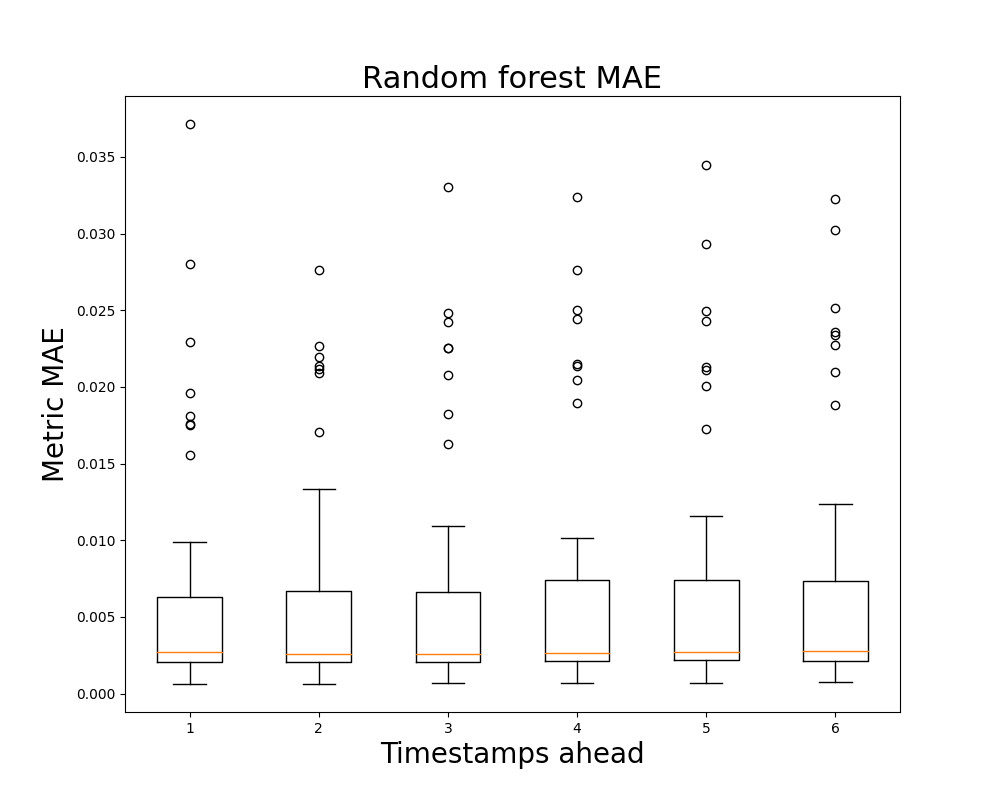
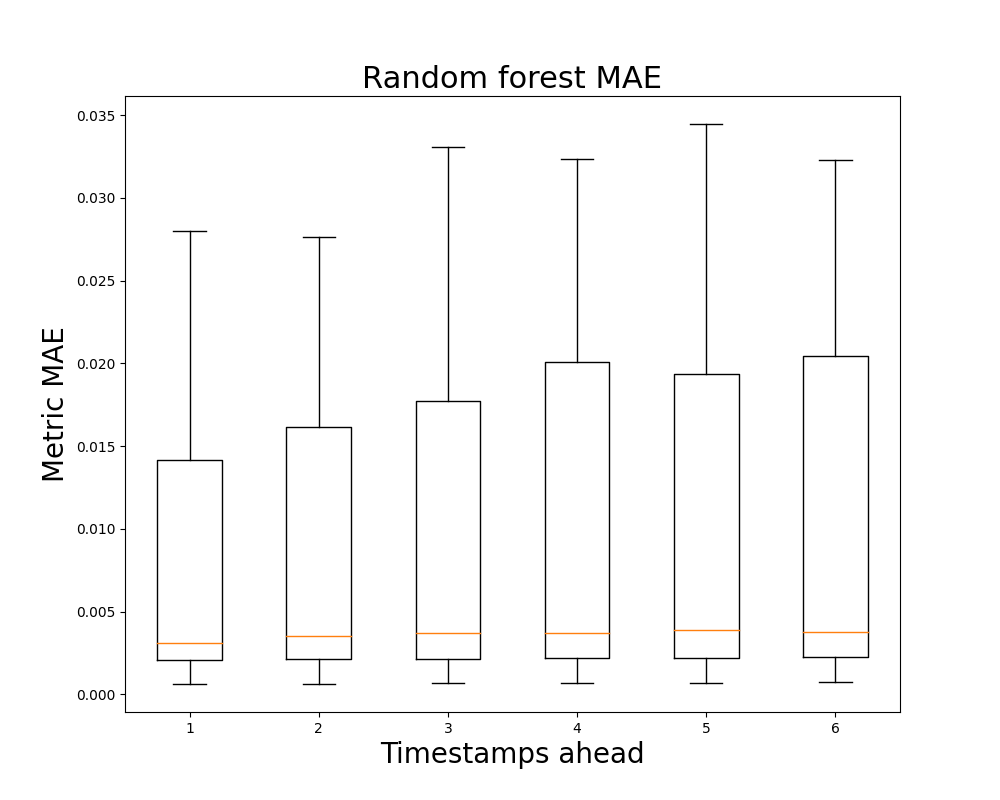
refactor rf results

diff --git a/generalization_tests/rf/results/read_rf_results.py b/generalization_tests/rf/results/read_rf_results.py
@@ -4,8 +4,7 @@ import numpy as np
 from matplotlib import pyplot as plt
 
 
-def remove_outliers(data):
-    cleaned_data = []
+def calculate_outliers(data):
     for inner_list in data:
         data_arr = np.array(inner_list, dtype=np.float64)
 
@@ -18,16 +17,13 @@ def remove_outliers(data):
         upper_bound = Q3 + 2 * IQR
         print(len(data_arr))
         print(len([x for x in data_arr if lower_bound <= x <= upper_bound]))
-        cleaned_data.append([x for x in data_arr if lower_bound <= x <= upper_bound])
-
-    return cleaned_data
 
 def create_boxplot(loss, name, timestamp, dir):
     print(dir +" "+ name)
-    loss = remove_outliers(loss)
+    calculate_outliers(loss)
     fig, ax = plt.subplots(nrows=1, ncols=1, figsize=(10, 8))
 
-    plt.boxplot(loss)
+    plt.boxplot(loss, showfliers=False)
     plt.xlabel('Timestamps ahead', fontsize=20)
     plt.ylabel('Metric ' + name, fontsize=20)
     plt.title('Random forest ' + name, fontsize=22)
@@ -124,8 +120,8 @@ def get_avg_loss(dir):
 def main():
     # create_timestamp_files("test")
     # create_timestamp_files("validation")
-    get_avg_loss("test")
     get_avg_loss("validation")
+    get_avg_loss("test")
 
 
 if __name__ == "__main__":
